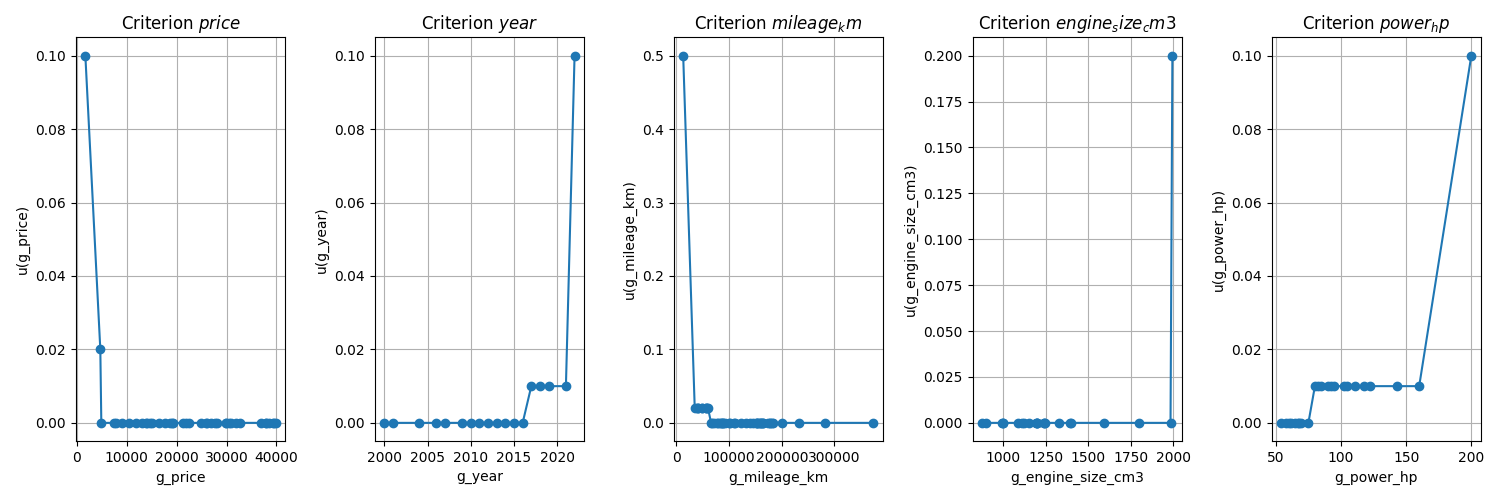
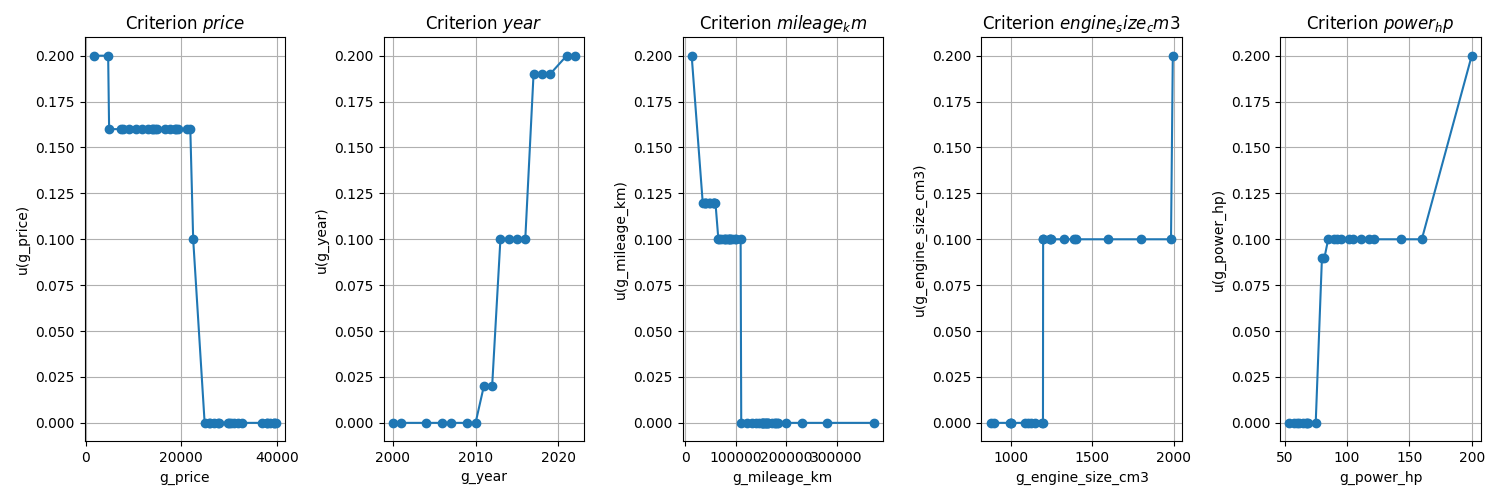
better artificial

diff --git a/uta.py b/uta.py
@@ -56,7 +56,7 @@ def add_weight_constraints(problem: LpProblem, criteria: Criteria, criteria_vari
         best_value = criterion.values[-int(criterion.is_gain)] # best is last in gain, first in cost
         problem += criterion_vars[best_value] <= 0.5, f"Weight_{criterion.name}_Max"
         problem += criterion_vars[best_value] >= threshold, f"Weight_{criterion.name}_Min"
-
+    
 def calculate_alternative_utilities(problem: LpProblem, dataset: pd.DataFrame, criteria: Criteria, criteria_variables: CriteriaVariables) -> Dict[str, LpVariable]:
     alternative_utilities = {}
     for index, row in dataset.iterrows():
@@ -72,26 +72,26 @@ def add_preference_constraints(problem: LpProblem, alternative_utilities: Dict[s
         problem += constraint, f"Pref_{pref.better}_{pref.worse}"
 
 def create_artificial_alternatives(problem: LpProblem, criteria: Criteria, criteria_variables: CriteriaVariables):
-    criteria_pairs = list(itertools.combinations(criteria, 2))
-    for i, (criterion1, criterion2) in enumerate(criteria_pairs):
-        best_value1 = criterion1.values[-int(criterion1.is_gain)]
-        worst_value1 = criterion1.values[int(criterion1.is_gain)-1]
-        best_value2 = criterion2.values[-int(criterion2.is_gain)]
-        worst_value2 = criterion2.values[int(criterion2.is_gain)-1]
-        
-        utility_var1 = LpVariable(f"Artificial_{i}_1_Utility", lowBound=0)
-        problem += utility_var1 == lpSum([
-            criteria_variables[criterion1.name][best_value1],
-            criteria_variables[criterion2.name][worst_value2]
-        ]), f"Utility_Artificial_{i}_1"
-        
-        utility_var2 = LpVariable(f"Artificial_{i}_2_Utility", lowBound=0)
-        problem += utility_var2 == lpSum([
-            criteria_variables[criterion1.name][worst_value1],
-            criteria_variables[criterion2.name][best_value2]
-        ]), f"Utility_Artificial_{i}_2"
-        
-        problem += utility_var1 != utility_var2, f"Avoid_Flat_{criterion1.name}_{criterion2.name}"
+    for i in range(len(criteria)):
+        for j in range(i+1, len(criteria)):
+            best_i = criteria[i].values[-int(criteria[i].is_gain)]
+            worst_i = criteria[i].values[int(criteria[i].is_gain)-1]
+            best_j = criteria[j].values[-int(criteria[j].is_gain)]
+            worst_j = criteria[j].values[int(criteria[j].is_gain)-1]
+            
+            alt1_utility = criteria_variables[criteria[i].name][best_i] + criteria_variables[criteria[j].name][worst_j]
+            alt2_utility = criteria_variables[criteria[i].name][worst_i] + criteria_variables[criteria[j].name][best_j]
+            
+            problem += alt1_utility - alt2_utility <= 0.95, f"ArtificialNotDictatorial_{criteria[i].name}_{criteria[j].name}_1"
+            problem += alt2_utility - alt1_utility <= 0.95, f"ArtificialNotDictatorial_{criteria[i].name}_{criteria[j].name}_2"
+            
+            mid_i = criteria[i].values[len(criteria[i].values) // 2]
+            problem += criteria_variables[criteria[i].name][mid_i] - criteria_variables[criteria[i].name][worst_i] >= 0.10, f"ArtificialNotFlat_{criteria[i].name}_{criteria[j].name}_1"
+            problem += criteria_variables[criteria[i].name][best_i] - criteria_variables[criteria[i].name][mid_i] >= 0.10, f"ArtificialNotFlat_{criteria[i].name}_{criteria[j].name}_2"
+            
+            mid_j = criteria[j].values[len(criteria[j].values) // 2]
+            problem += criteria_variables[criteria[j].name][mid_j] - criteria_variables[criteria[j].name][worst_j] >= 0.10, f"ArtificialNotFlat_{criteria[j].name}_{criteria[i].name}_1"
+            problem += criteria_variables[criteria[j].name][best_j] - criteria_variables[criteria[j].name][mid_j] >= 0.10, f"ArtificialNotFlat_{criteria[j].name}_{criteria[i].name}_2"
 
 def find_inconsistent_preferences(dataset: pd.DataFrame, criteria: Criteria, preferences: List[Preference]) -> Tuple[List[Preference], List[Preference]]:
     all_consistent_subsets = []
@@ -105,10 +105,7 @@ def find_inconsistent_preferences(dataset: pd.DataFrame, criteria: Criteria, pre
             add_weight_constraints(problem, criteria, criteria_variables)
             alternative_utilities = calculate_alternative_utilities(problem, dataset, criteria, criteria_variables)
             add_preference_constraints(problem, alternative_utilities, list(subset))
-            # try:
             create_artificial_alternatives(problem, criteria, criteria_variables)
-            # except:
-            #     pass
             problem += 0
             problem.solve(PULP_CBC_CMD(msg=0))
             if LpStatus[problem.status] == "Optimal":
@@ -130,10 +127,7 @@ def solve_uta_with_consistent_preferences(dataset: pd.DataFrame, criteria: Crite
     add_weight_constraints(problem, criteria, criteria_variables)
     alternative_utilities = calculate_alternative_utilities(problem, dataset, criteria, criteria_variables)
     add_preference_constraints(problem, alternative_utilities, consistent_preferences)
-    # try:
     create_artificial_alternatives(problem, criteria, criteria_variables)
-    # except:
-    #     pass
     problem += 0
     problem.solve(PULP_CBC_CMD(msg=0))
     return problem, criteria_variables, alternative_utilities
@@ -188,9 +182,9 @@ def main():
         Preference(better="Alternative_0", worse="Alternative_1"), # A > B
         Preference(better="Alternative_1", worse="Alternative_2"), # B > C
         Preference(better="Alternative_2", worse="Alternative_0"), # C > A (cycle)
+        Preference(better="Alternative_2", worse="Alternative_3"), # C > D
         Preference(better="Alternative_3", worse="Alternative_4"), # D > E
         Preference(better="Alternative_4", worse="Alternative_5"), # E > F
-        Preference(better="Alternative_0", worse="Alternative_3"), # A > D
     ]
     
     print("Preferences:")
